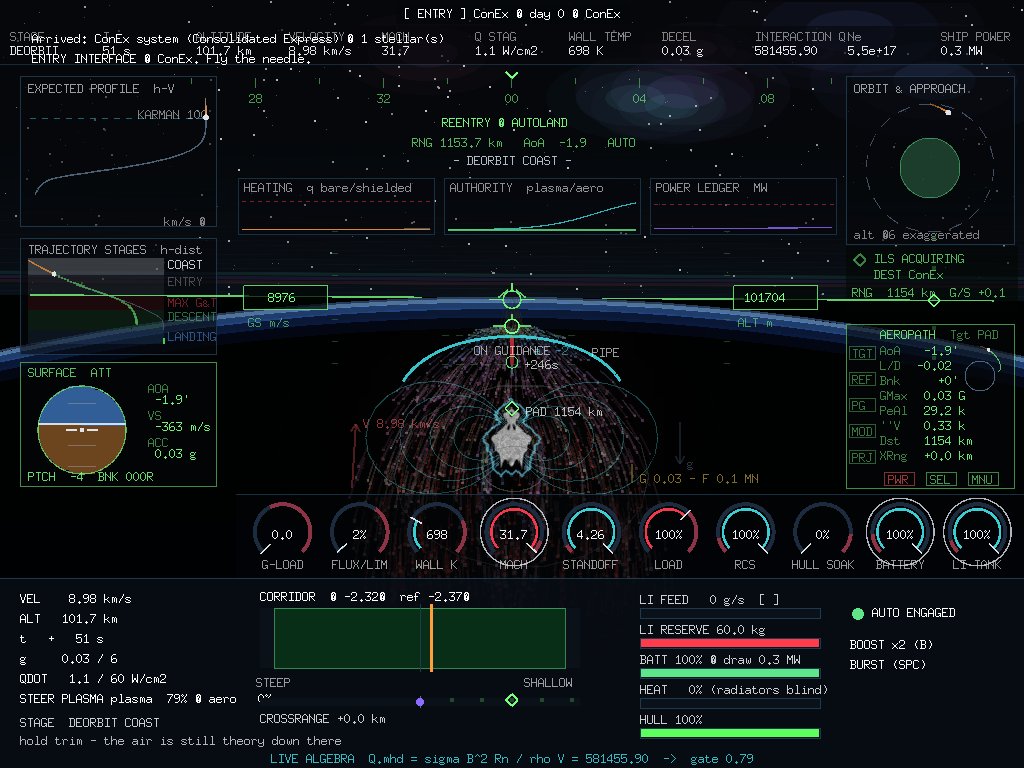
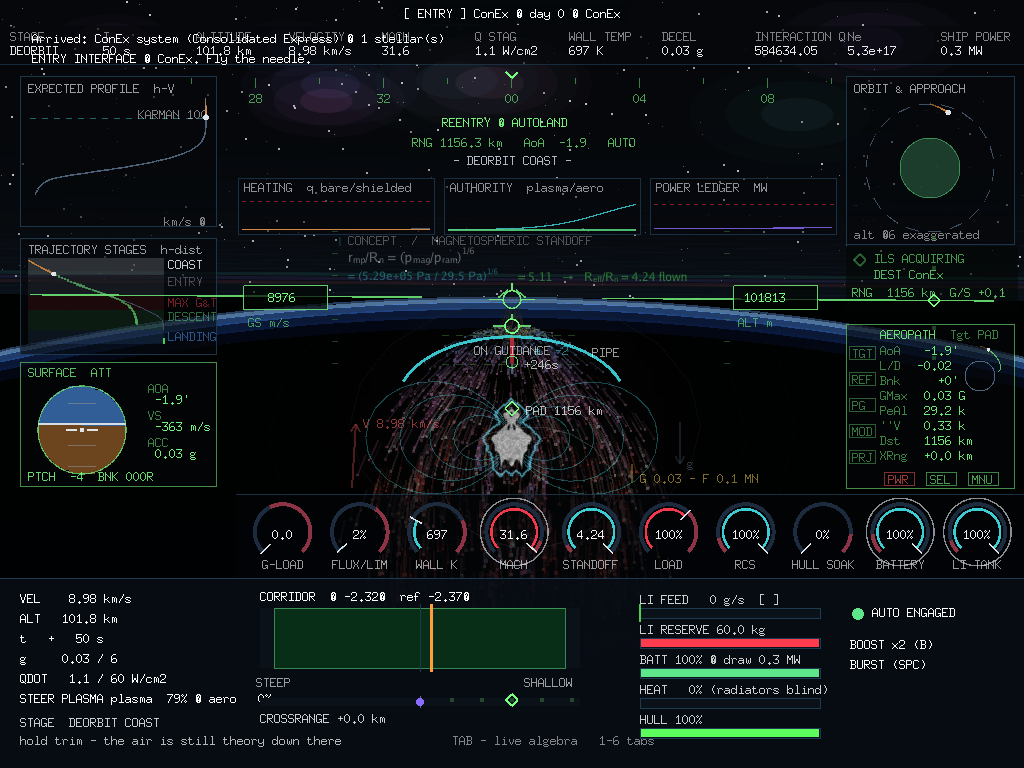
lab report: algebra on the sky — the console's tabs typeset in flight
LR-2026-06: the MHD console's six numerical-flow tabs written onto the
black of the sky above the horizon, touring the descent block by block;
a tiny TeX-ish math engine over the Go face (subscripts, superscripts,
drawn radicals, real Greek); and the seed-economy advisor — AdviseFeed
solving the envelope model backwards for the least lithium that holds
the flux line, drawn as the caret on the LI FEED bar with WASTE and
STARVED verdicts. Optimal fuel, minimal hull, one green line. Bumps
gonex to 8f72e19; sky-tab captures in assets/gpis-instruments/.

diff --git a/docs/lab-reports/2026-09-01-sky-algebra-and-seed-economy.md b/docs/lab-reports/2026-09-01-sky-algebra-and-seed-economy.md
@@ -1,0 +1,113 @@
+# LR-2026-06 — Algebra on the Sky: the Console's Six Tabs, Typeset in Flight
+
+**Date:** 2026-09-01 · **Scope:** `gonex/internal/ui/mathtext.go`,
+`gonex/internal/app/gpis.go`, `gonex/internal/reentry` (AdviseFeed) ·
+**References:** the vendored MHD console's LIVE ALGEBRA rail
+(`vendor/docs/reentry-console.html`), LR-2026-05.
+
+The console prototype's numerical-flow tabs — CONCEPT, FLOW, HEATING,
+PLASMA, SHIELD, POWER — walk each subsystem from formula through
+substitution to result. This round puts that walk *inside the descent*:
+the equations are typeset onto the black of the sky above the horizon,
+recomputed from the live state every frame, touring block by block down
+the corridor. And one of them is solved backwards into a flying aid: the
+seed-economy advisor, the optimal-fuel / minimal-hull line drawn on the
+LI FEED gauge.
+
+![The wall equation on the sky at peak g](../../assets/gpis-instruments/sky-tab3.png)
+
+## 1. Math typography in a bitmap-era cockpit (`ui/mathtext.go`)
+
+The game's face is 7×13 ASCII; an equation wants ρ, a raised ², a
+lowered subscript and a vinculum. The fix is a ~120-line TeX-ish layout
+engine over the Go vector face (`gofont/goregular` through ebitengine's
+`text/v2`), with three markers:
+
+    _{...}   subscript        ^{...}   superscript
+    √{...}   radical — the surd and vinculum are drawn with vector
+             strokes over the radicand, so the bar always fits
+
+`DrawMath` walks the runes, recursing one level for groups, drawing
+plain runs at the base size and marked runs at 0.66× with baseline
+offsets; `MathWidth` is the same walk with a nil destination. The Go
+face carries Greek natively, so `ρ`, `γ`, `σ`, `Σ`, `χ`, `φ` are real
+glyphs. One trap worth recording: the sub/superscript branch originally
+did `x += mathRun(...)` — but `mathRun` returns the absolute end-x, not
+an advance, so every equation truncated after its first subscript.
+Bitmap-font prose has its own trap: basicfont renders `—`, `–` and `·`
+as boxes, so panel prose stays ASCII while equations get the full set.
+
+## 2. The sky layer
+
+The first build was an opaque sliding side panel. The direction that
+replaced it: *the algebra belongs to the black background*. The layer
+now draws with no box at all, in the clear band between the HUD's speed
+and altitude boxes, just above the horizon:
+
+- one block at a time — label, equation, substitution → result — each
+  holding ~6.5 s with an ease-in/out, touring all three blocks of all
+  six tabs across the descent (a full tour ≈ the length of the entry:
+  the flight lectures itself on the way down);
+- visibility is *earned from the scene*: alpha scales with how black
+  the sky actually is (`(h−15 km)/35`), with the horizon's headroom,
+  and dissolves across the ILS seam — at low altitude the daylight
+  simply washes it away, no toggle needed;
+- `TAB` hides the layer (the full-map binding yields to it on the
+  corridor only), `1–6` pins a tab for ~30 wall-seconds, then the tour
+  resumes;
+- `GONEX_ALG=1..6` pins a tab from the environment — the hook the
+  documentation captures are taken through.
+
+Every number is the sim's: the blocks call `reentry.Atm` and read
+`Sim.Pt` directly, so the sky shows the same standoff, gate, flux, nₑ
+and power the dials read — plus the derivations between them
+(`f_pe = 8.98·√n_e = 117.6 GHz — S-BAND BLACKOUT` while the ILS lamp
+sits at ACQUIRING).
+
+![Saha, the seed, and the blackout verdict](../../assets/gpis-instruments/sky-tab4.png)
+
+## 3. The seed-economy advisor (`Sim.AdviseFeed`)
+
+The SHIELD tab's teaching — the MHD gate is Q/(1+Q), and past the knee
+extra electrons buy nothing — becomes a control-law aid. Each ~0.3 s
+the game solves the envelope model backwards:
+
+    feed_opt = min f : q_shld(f) ≤ 0.6 · TPS limit
+
+by evaluating `stateAt` at eleven feed levels (cheap; the model is a
+closed-form chain). The answer lands in three places:
+
+- a **green caret on the LI FEED bar** — the optimal-consumption line;
+- **verdicts on the bar's label**: `WASTE` when the gate is saturated
+  and the feed is over the caret (grams buying nothing), `STARVED` when
+  the sheath is hot and the feed is under it (hull paying instead);
+- the SHIELD tab's third block, showing the solve as algebra.
+
+The economy is real, not cosmetic: leftover lithium and hull percentage
+are both scored at the pay screen, so flying the caret is literally
+optimal fuel consumption and minimal hull damage. The honest surprise
+the advisor surfaces: for most of the descent the optimum is *zero* —
+below ~36 W/cm² the bare pillow suffices, and the seed exists for the
+pulse. (The guardian's emergency dump still flags WASTE, correctly: the
+reflex buys safety with lithium, and the gauge says so.)
+
+![The advisor's solve, on the sky and on the gauge](../../assets/gpis-instruments/sky-tab5.png)
+
+## 4. What the six tabs mean at the stick
+
+- **CONCEPT** — standoff `(p_mag/p_ram)^{1/6}`, the free brake `D·V`,
+  the corridor wedge: the mental model. The stick flies the wedge, the
+  coil flies the heat.
+- **FLOW** — ρ(h) is the master variable; M, q_dyn, Kn, T₂ all follow.
+- **HEATING** — the V³ law is why the corridor spends velocity high;
+  FLUX/LIM and WALL K are this tab with needles.
+- **PLASMA** — `[ ]` buys electrons; blackout is physics, not a fault.
+- **SHIELD** — the gate's knee; fly the feed caret.
+- **POWER** — megawatts of bill against gigawatts of free braking; a
+  full battery is part of the flight plan.
+
+## Cost
+
+The layer is text and a few strokes per frame; the advisor is eleven
+closed-form evaluations per 0.3 s; the math faces are cached per size.
+`go vet` clean, all suites green; gonex 8f72e19.
